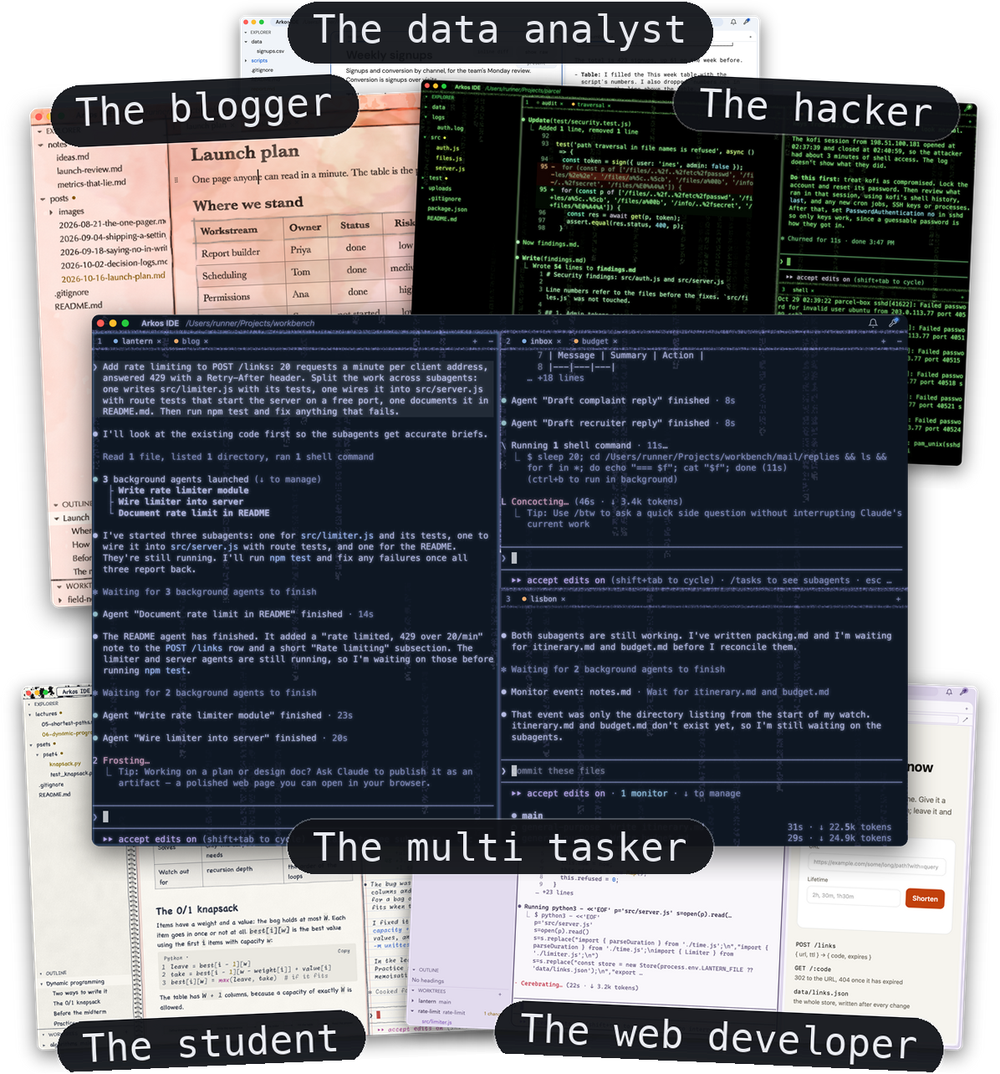
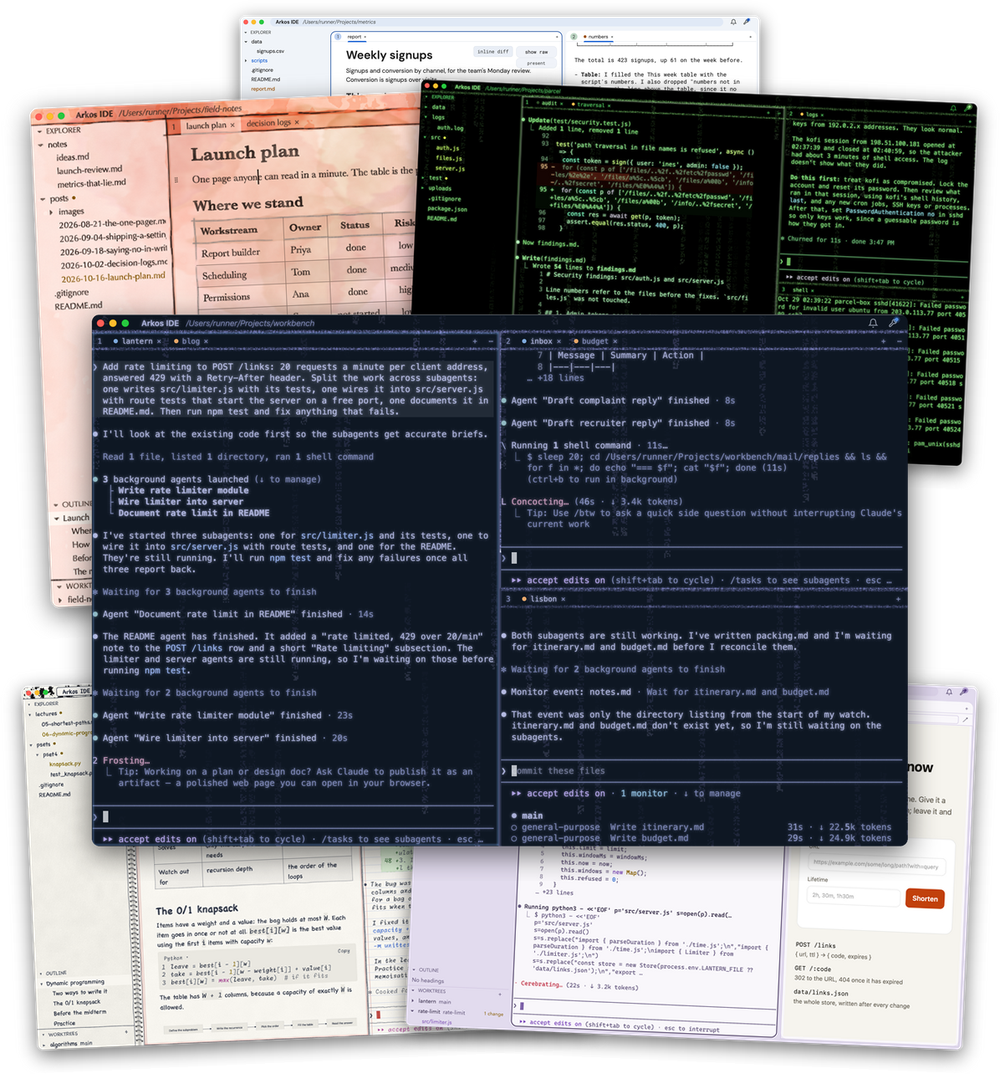
Pictures: csarko.sh's card heroes without persona captions
The project card frames the tall hero at 240 px beside its text and the
wide one under its title on a phone; at that size the caption pills took
too much of the picture. The compositor now hangs no pill for an empty
caption, and the shoot composes hero-portrait-dark.png and a new
hero-card-dark.png bare. The README hero keeps its captions.

diff --git a/scripts/shoot/frame.py b/scripts/shoot/frame.py
@@ -9,7 +9,8 @@ another capture over the window at those pixels first.
 
 `compose` lays framed stills out as the hero: the first large in front, the others fanned
 behind it, a caption on each (the scene's words), on a transparent ground; `compose-portrait`
-the same as a tall picture, for a place beside text:
+the same as a tall picture, for a place beside text. A still given with no caption (`<path>:`)
+gets none:
 
     python3 -I scripts/shoot/frame.py compose <out.png> <front.png>:"The multi tasker" <back.png>:"The web developer" [<back.png>:"The blogger" ...]
 
@@ -61,7 +62,10 @@ def captioned(still, text, align, scale, edge="bottom"):
     """The still with its caption hung on its lower (or upper) border at the left, centre or
     right (the side it shows from behind the front one): a dark pill with light text, readable
     on light and dark pages alike. `scale` is the still's size against the framed original,
-    whose shadow padding the pill sits inside of."""
+    whose shadow padding the pill sits inside of. An empty caption hangs no pill: the card
+    pictures go without, since their frame is too small to spare the room."""
+    if not text:
+        return still.copy()
     font = ImageFont.truetype(CAPTION_FONT, CAPTION_SIZE)
     probe = ImageDraw.Draw(Image.new("RGBA", (1, 1)))
     box = probe.textbbox((0, 0), text, font=font)
